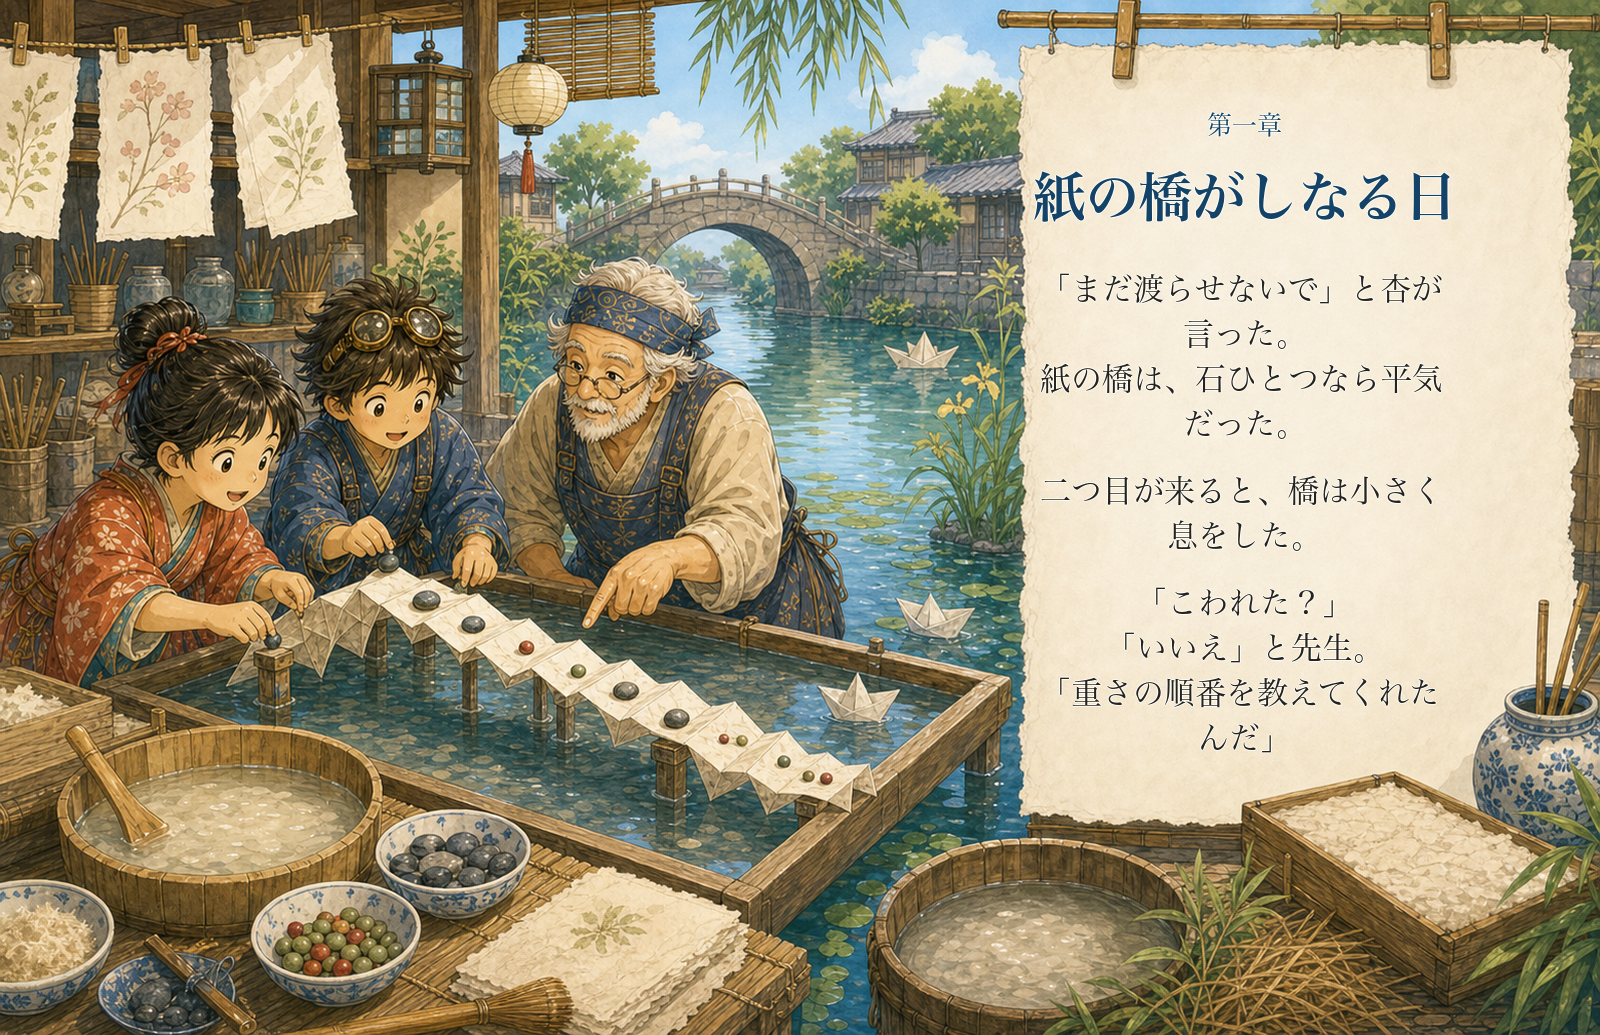
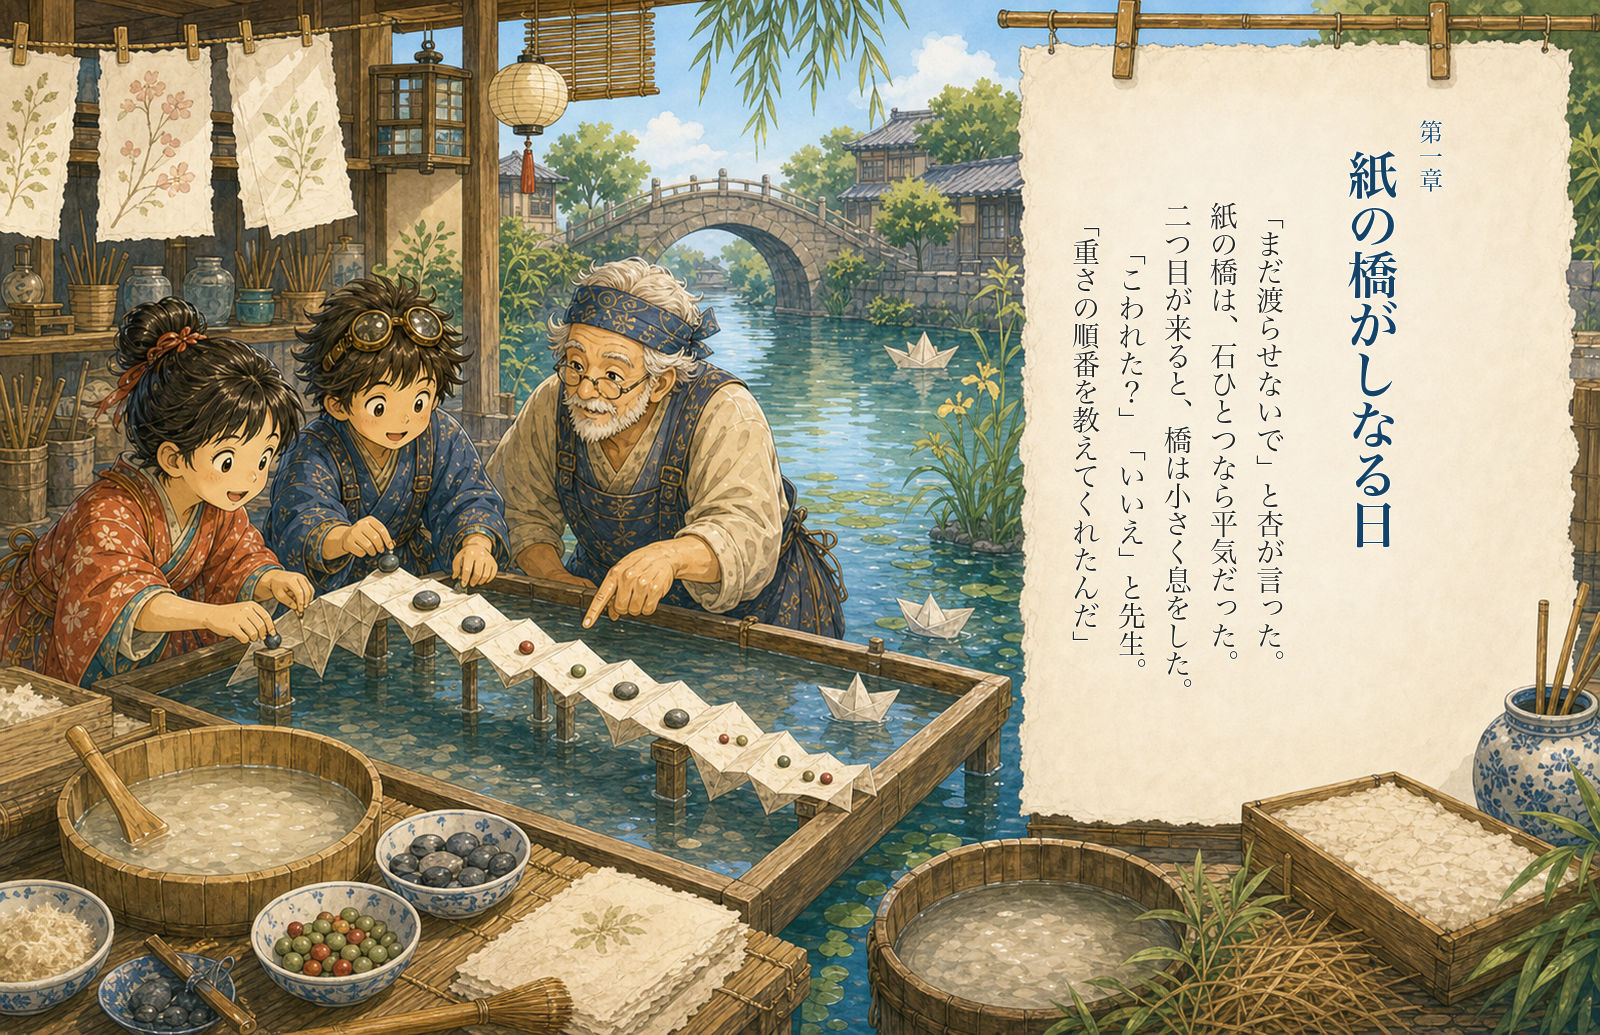
Use vertical Japanese sample layout

Changed region(s): [[0.625, 0.1237, 0.9062, 0.742], [0.75, 0.0928, 0.8125, 0.1237]]

diff --git a/wonder-engine/SKILL.md b/wonder-engine/SKILL.md
@@ -19,7 +19,7 @@ Do not imitate or name any existing book, character, author, illustrator, or exa
 - Make book titles unique, imaginative, and slightly odd. Present each title as a package with a main title and a subtitle/tagline. Avoid short generic titles unless the user asks for simplicity.
 - Ask about cultural flavor, language, and things to avoid before designing the world. Do not declare or label a cultural inspiration in the book unless the user asks for that.
 - Do not assume a single human child protagonist. Before pitching, establish the lead structure and cast ecology: one lead, two leads, ensemble, animal, human, machine/tool, sentient object, place-as-character, adult-centered, child-centered, or another shape.
-- Ask about typography after the story concept and world direction are clear, usually before illustration blueprint or PDF assembly. Choose fonts for readability, language support, and book personality; avoid generic fallback fonts when better local or supplied fonts are available.
+- Ask about typography after the story concept and world direction are clear, usually before illustration blueprint or PDF assembly. Choose fonts, writing direction, and layout conventions for readability, language support, and book personality; avoid generic fallback fonts when better local or supplied fonts are available.
 - Convert abstract ideas into physical story logic: places, creatures, tools, games, rituals, hazards, maps, songs, weather, craft processes, kitchens, gardens, classrooms, markets, social customs, visible rules, civic systems, or machines when machinery is truly the right metaphor.
 - Do not over-mechanize the book. Machinery is one possible metaphor, not the default language for every concept. For each major source idea, choose the form that best fits the source, culture/language direction, emotional tone, and reader experience.
 - Keep source terminology out of reader-facing titles, subtitles, cast names, world names, and major object names unless the user explicitly asks for technical language. The source concepts are internal scaffolding; the story should reveal them through events.
@@ -314,6 +314,7 @@ When images and text are approved, assemble a proof PDF, then correct layout aga
 - place approved images as page backgrounds
 - typeset exact manuscript text manually into native blank or pale image areas
 - use the chosen font pairing; if the requested language or glyph set is not covered, choose a supported alternative and note it
+- respect the language's chosen writing direction and book convention. For Japanese book-style layouts, use vertical columns flowing right-to-left when that is the intended form; do not default to horizontal left-to-right merely because the layout tool does.
 - do not rely on starter manifest boxes as final placement
 - inspect the real usable pale/low-detail area on each generated image
 - update each page's text zones, split text islands, or regenerate art when the quiet space does not match the text

diff --git a/README.md b/README.md
@@ -71,7 +71,7 @@ There is one limited exception: diagram-like anchor pages can use native image t
 
 ## Multiple Languages
 
-Wonder Engine can shape a book for different languages, scripts, and reading contexts. Language is part of the creative brief: it affects interview questions, source handling, typography, line length, cultural signals, image prompts, and final PDF layout.
+Wonder Engine can shape a book for different languages, scripts, and reading contexts. Language is part of the creative brief: it affects interview questions, source handling, typography, line length, writing direction, cultural signals, image prompts, and final PDF layout.
 
 The image model still creates artwork, not final manuscript text. For localized or multilingual books, the workflow chooses fonts with the right script support and overlays the exact approved text after the illustration is generated.
 
@@ -82,7 +82,7 @@ The image model still creates artwork, not final manuscript text. For localized 
 
 <figure>
   <img src="./docs/assets/wonder-engine-sample-japanese.png" alt="Japanese Wonder Engine sample spread about paper bridges, fibers, and material testing">
-  <figcaption><em>Japanese sample: paper fibers, load, and material testing without a machinery-first metaphor. Artwork generated first; Japanese text overlaid afterward.</em></figcaption>
+  <figcaption><em>Japanese sample: paper fibers, load, and material testing without a machinery-first metaphor. Artwork generated first; vertical Japanese text overlaid afterward.</em></figcaption>
 </figure>
 
 ## The Layout Idea

diff --git a/wonder-engine/references/story-standards.md b/wonder-engine/references/story-standards.md
@@ -370,6 +370,8 @@ Choose typography as part of the book design, not as an afterthought.
 - Pair expressive headings with steadier body text.
 - Avoid generic fallback fonts when local, bundled, or user-supplied fonts are available.
 - Check glyph coverage for the requested language before committing to a font.
+- Choose the writing direction and page convention deliberately. Some languages have multiple valid conventions; for Japanese book-style layouts, vertical tategaki columns flowing right-to-left may be the appropriate default, while other contexts may call for horizontal text.
+- Balance optical padding inside the actual quiet area for the chosen writing direction. Do not simply reuse left-to-right text boxes for vertical, right-to-left, or mixed-script layouts.
 - Avoid long passages in faux handwriting or decorative display fonts.
 - Render a proof page and adjust size, leading, line length, or font choice before final PDF delivery.
 
